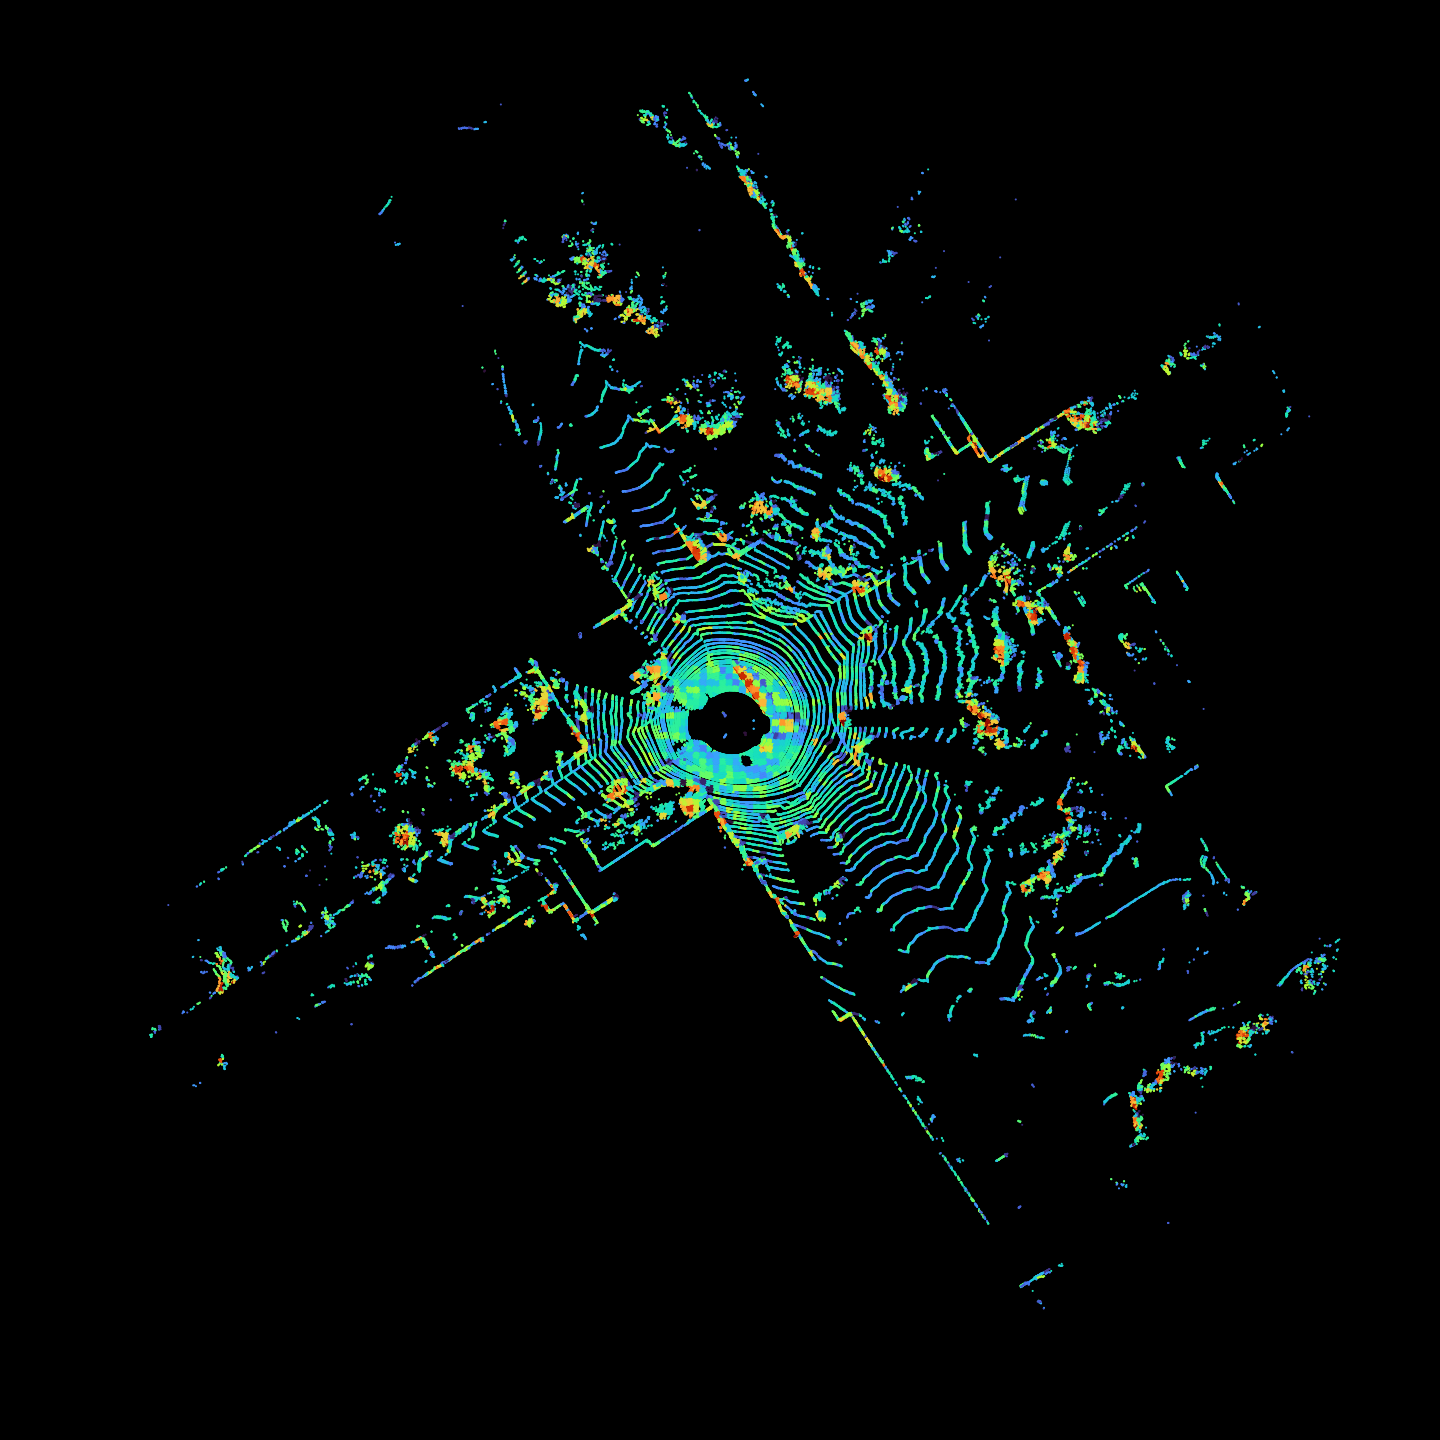
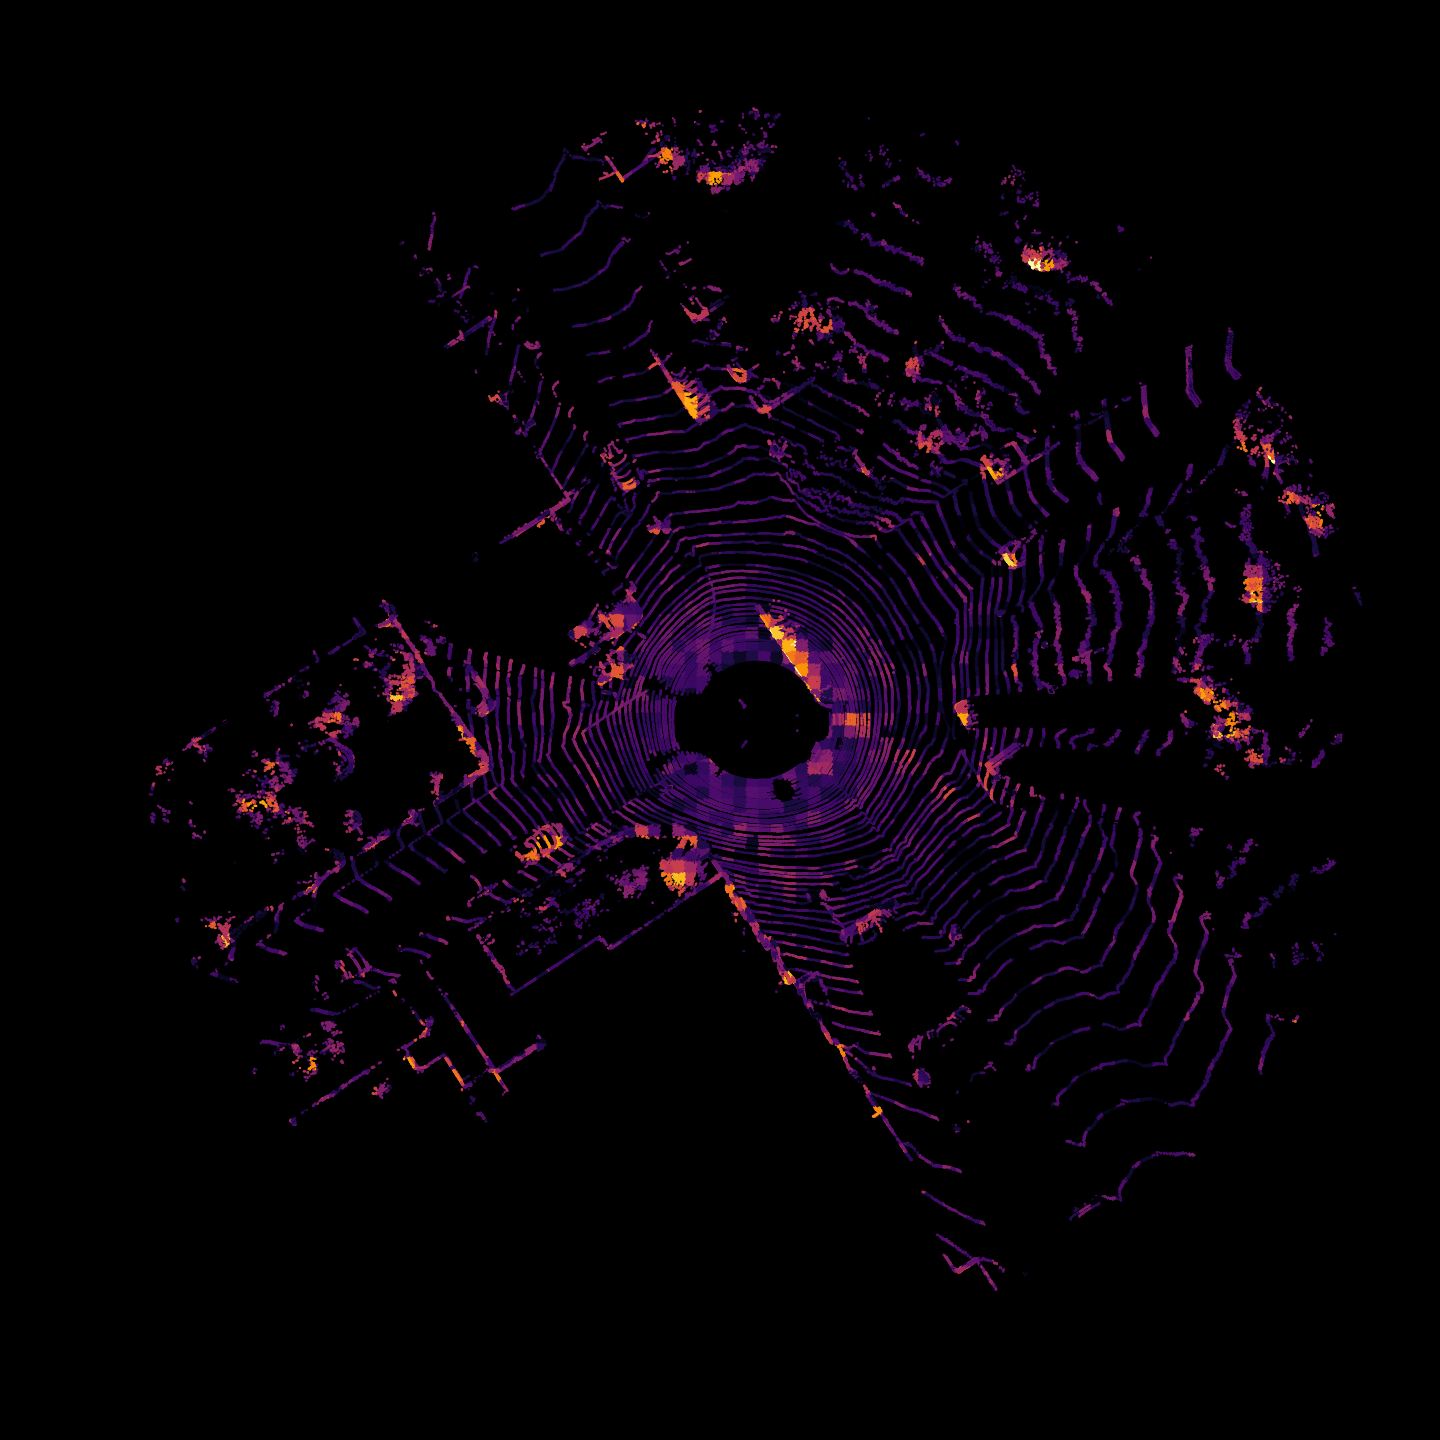
fix(similarity): whiten features + sequential cmap (was 'everything bright')
Raw cosine on variance-ordered PCA features is dominated by the top geometry
axes, so almost every point looked similar. Standardize each axis (whiten, on by
default; --no-whiten to disable) and switch the colormap to inferno (dark=different)
so the map is selective. Picking a point now highlights only similar regions.

diff --git a/coloring.py b/coloring.py
@@ -201,15 +201,27 @@ def reference_vector(data: np.ndarray, spec, feat_start: int = 8,
 
 
 def color_similarity(data: np.ndarray, ref_vec: np.ndarray, feat_start: int = 8,
-                     cmap: str = "turbo", norm: str = "percentile") -> np.ndarray:
+                     cmap: str = "inferno", norm: str = "percentile",
+                     whiten: bool = True) -> np.ndarray:
     """Cosine similarity of each point's feature to ref_vec -> colormap (bright=similar).
 
     This is the honest "are the features good?" view: a *good* feature makes a whole
     object (and other instances of it) light up together. PCA-RGB cannot show this
     because it keeps only ~15% of the feature variance.
+
+    whiten: the feature block is variance-ordered, so the top 1-2 PCA axes (geometry:
+    range/height) otherwise dominate the dot product and make EVERYTHING look similar.
+    Standardizing each axis to unit variance lets all axes contribute equally, so the
+    similarity reflects the learned pattern rather than raw geometry. Strongly
+    recommended; pass whiten=False to see the raw (geometry-dominated) behaviour.
     """
-    F = _features(data, feat_start)
+    F = _features(data, feat_start).astype(np.float32)
     ref = np.asarray(ref_vec, dtype=np.float32).reshape(-1)
+    if whiten:
+        mu = F.mean(0)
+        sd = F.std(0) + 1e-6
+        F = (F - mu) / sd
+        ref = (ref - mu) / sd
     fn = F / (np.linalg.norm(F, axis=1, keepdims=True) + 1e-9)
     sim = fn @ (ref / (np.linalg.norm(ref) + 1e-9))     # cosine in [-1, 1]
     s = normalize(sim, norm)
@@ -240,5 +252,6 @@ def build_colors(data: np.ndarray, cfg) -> np.ndarray:
             ref = reference_vector(data, cfg.get("ref", "moving"),
                                    cfg.get("feat_start", 8), cfg.get("label_col", 7))
         return color_similarity(data, ref, cfg.get("feat_start", 8),
-                                cfg.get("sim_cmap", "turbo"), cfg.get("norm", "percentile"))
+                                cfg.get("sim_cmap", "inferno"), cfg.get("norm", "percentile"),
+                                cfg.get("whiten", True))
     raise ValueError(f"unknown mode '{mode}' (rgb|feature|label|confusion|time|similarity)")

diff --git a/visualize.py b/visualize.py
@@ -52,7 +52,9 @@ def parse_args():
     ap.add_argument("--pick", action="store_true",
                     help="similarity: shift+click a reference point in a picker window first")
     ap.add_argument("--feat-start", type=int, help="similarity: first feature column (default 8)")
-    ap.add_argument("--sim-cmap", help="similarity colormap (default turbo)")
+    ap.add_argument("--sim-cmap", help="similarity colormap (default inferno)")
+    ap.add_argument("--no-whiten", action="store_true",
+                    help="similarity: disable feature whitening (shows the raw geometry-dominated result)")
     ap.add_argument("--color-cols", type=int, nargs=3, help="rgb mode: 3 feature columns")
     ap.add_argument("--gamma", type=float, help="rgb mode: gamma (<1 brightens)")
     ap.add_argument("--feat-col", type=int, help="feature mode: scalar column")
@@ -75,7 +77,7 @@ def merge_cfg(args):
         mode="rgb", color_cols=[3, 4, 5], gamma=1.0,
         feat_col=3, norm="percentile", cmap="viridis", time_col=6, time_cmap="coolwarm",
         label_col=7, gt_col=7, pred_col=8,
-        ref="moving", feat_start=8, sim_cmap="turbo",
+        ref="moving", feat_start=8, sim_cmap="inferno", whiten=True,
         range_crop=[0.0, 60.0], flatten_2d=False,
         point_size=2.0, background=[0.05, 0.05, 0.08],
     )
@@ -92,6 +94,8 @@ def merge_cfg(args):
     }
     cfg.update({k: v for k, v in o.items() if v is not None})
     cfg["pick"] = args.pick
+    if args.no_whiten:
+        cfg["whiten"] = False
     if args.range_crop is not None:
         cfg["range_crop"] = args.range_crop
     if args.no_range_crop:

diff --git a/README.md b/README.md
@@ -103,6 +103,13 @@ python visualize.py --mode similarity --ref-idx 12345
 python visualize.py --mode similarity --ref-xyz 8.0 -3.0 0.0
 ```
 
+By default the features are **whitened** (each PCA axis standardized) before the
+cosine. Without it, the top 1-2 variance axes (geometry: range/height) dominate and
+*almost everything lights up* — a misleading "all similar". Whitening lets all axes
+count equally, so the map reflects the learned pattern. Pass `--no-whiten` to see the
+raw geometry-dominated behaviour. The colormap is sequential (`inferno`: dark=different,
+bright=similar) so low similarity is clearly dark.
+
 For the 4D goal specifically: `--ref moving` shows whether moving objects are
 *distinctive in feature space*. If moving and static cars light up the same, the
 SSL leaned on geometry, not motion — a real, useful negative result. The decisive